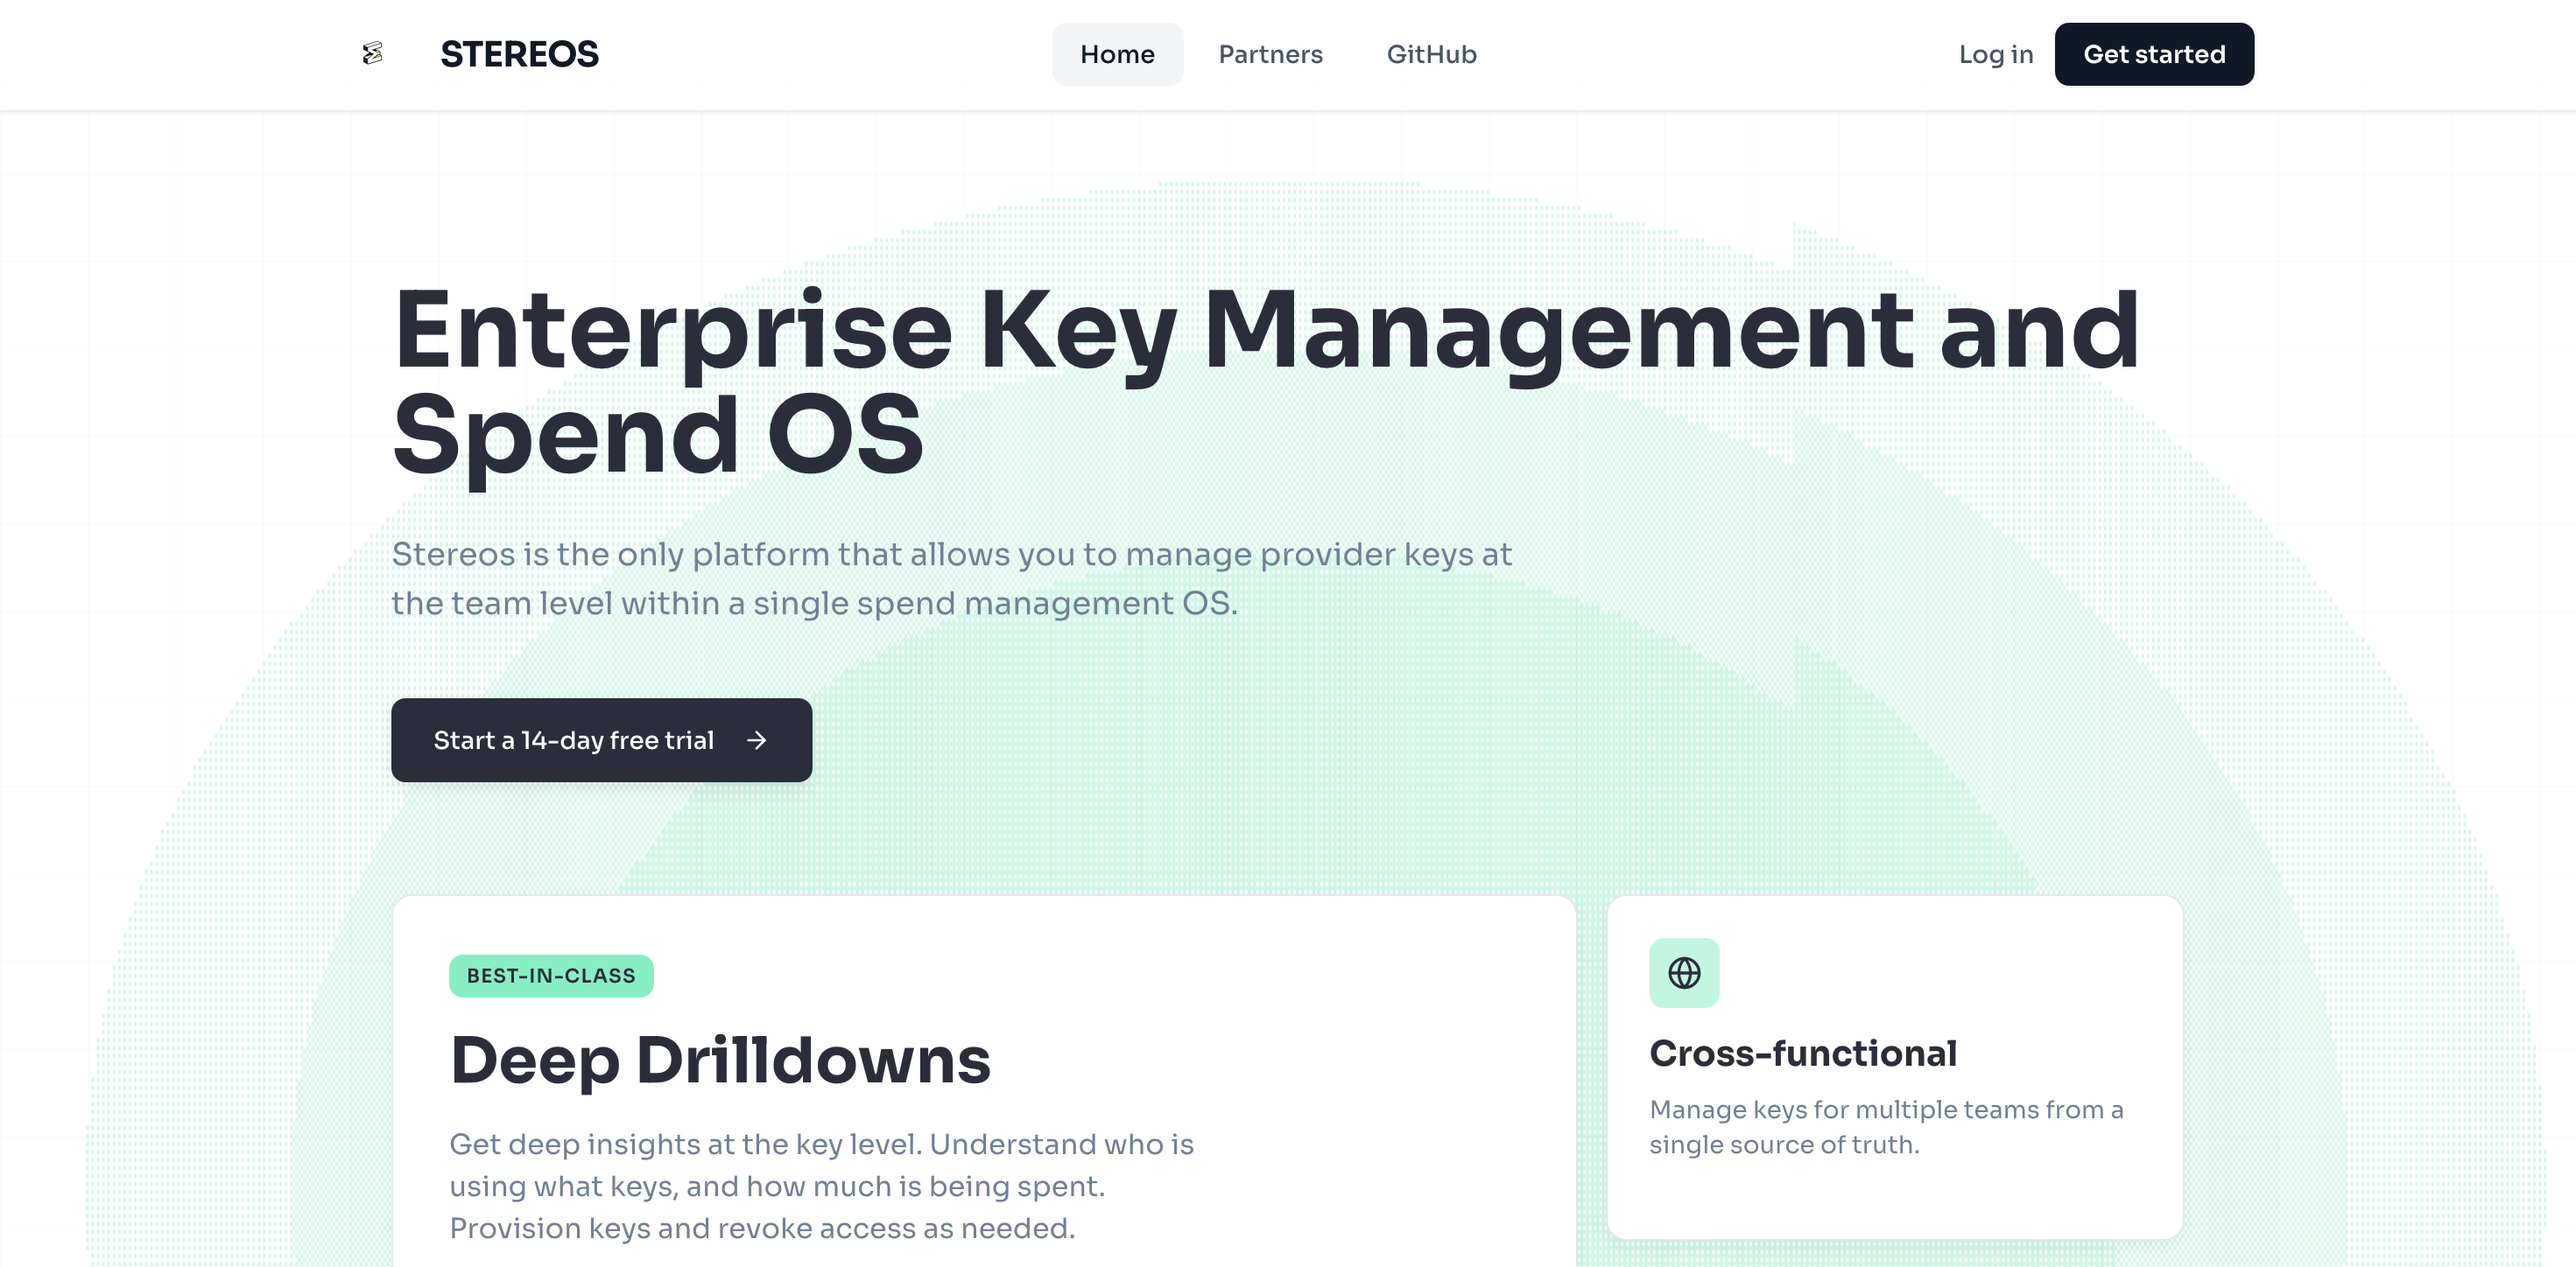
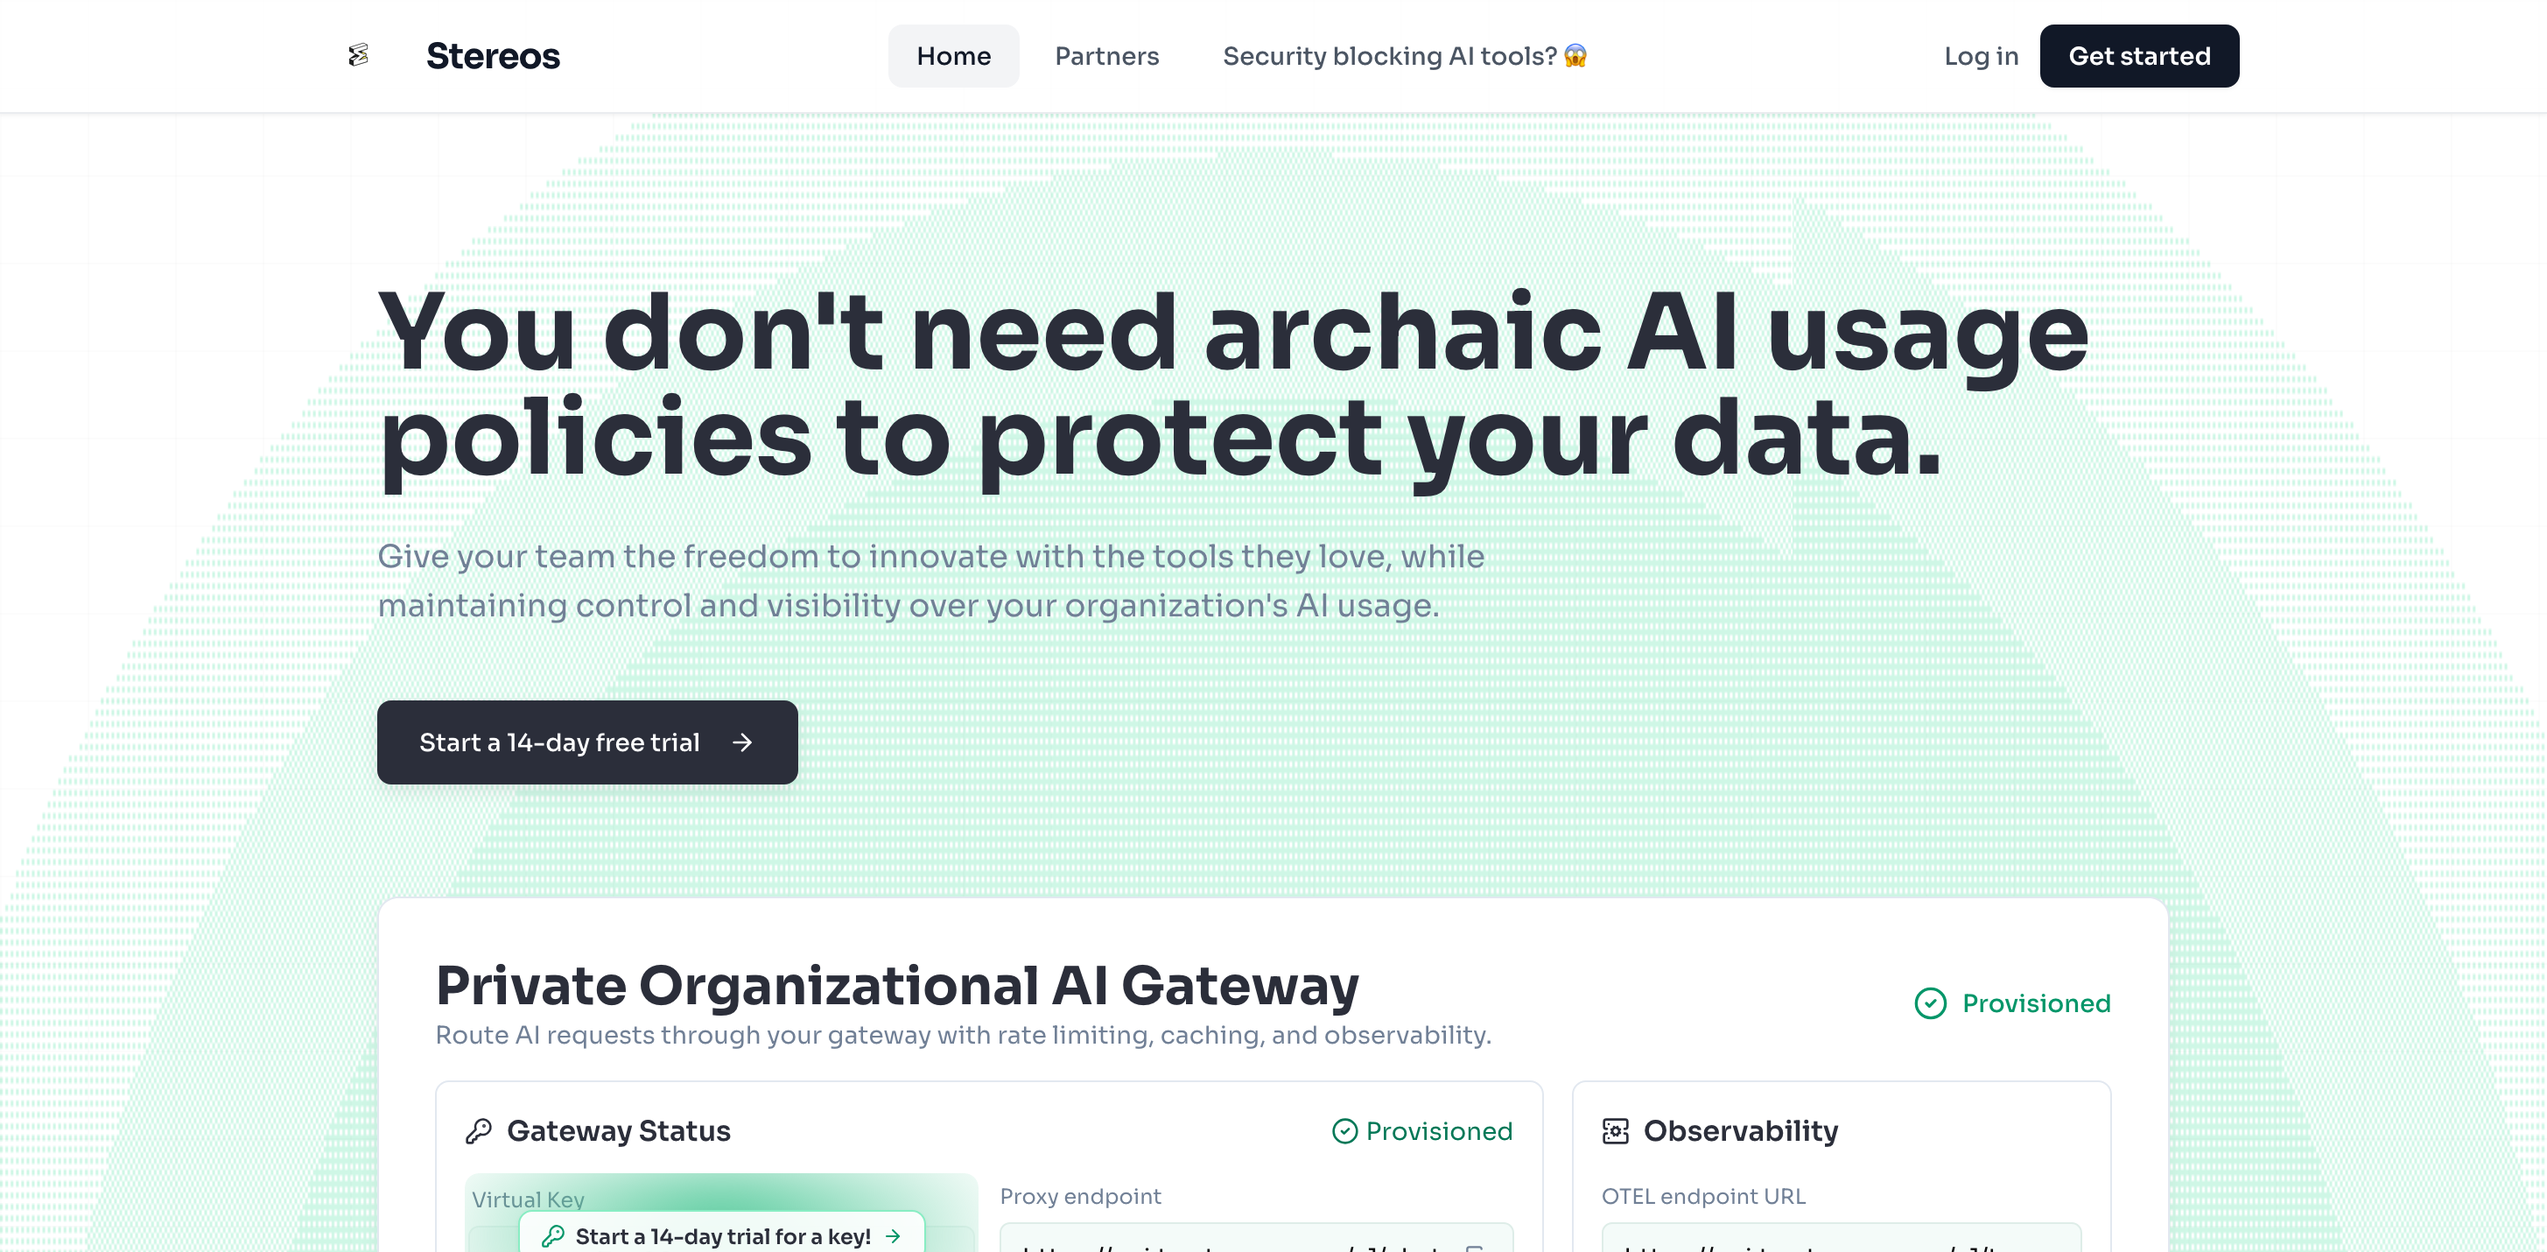
copy upgrade

diff --git a/app/layout.tsx b/app/layout.tsx
@@ -15,15 +15,15 @@ const sora = Sora({
 })
 
 export const metadata: Metadata = {
-  title: "Stereos | LLM tool usage ledger for teams",
-  description: "Org-wide LLM usage attribution and change management",
+  title: "You don't need archaic AI usage policies to protect your data. You need Stereos.",
+  description: "Give your team the freedom to innovate with the tools they love",
   generator: 'v0.dev',
   keywords: ['change management', 'attribution', 'developer enablement', 'process management', 'observability', 'analytics', 'LLMs', 'AI'],
   authors: [{ name: 'Stereos' }],
   creator: 'Stereos',
   openGraph: {
-    title: "Stereos | LLM tool usage ledger for teams",
-    description: "Org-wide LLM usage attribution and change management",
+    title: "You don't need archaic AI usage policies to protect your data. You need Stereos.",
+    description: "Give your team the freedom to innovate with the tools they love",
     url: "https://www.trystereos.com",
     siteName: "Stereos",
     images: [
@@ -31,7 +31,7 @@ export const metadata: Metadata = {
         url: "https://www.trystereos.com/og-image.png",
         width: 1200,
         height: 630,
-        alt: "Stereos - LLM tool usage ledger for teams",
+        alt: "Private Organizational AI Gateway",
       }
     ],
     locale: "en_US",
@@ -39,8 +39,8 @@ export const metadata: Metadata = {
   },
   twitter: {
     card: "summary_large_image",
-    title: "Stereos | LLM tool usage ledger for teams",
-    description: "Org-wide LLM usage attribution and change management",
+    title: "You don't need archaic AI usage policies to protect your data. You need Stereos.",
+    description: "Give your team the freedom to innovate with the tools they love",
     images: ["https://www.trystereos.com/og-image.png"]
   },
   robots: {
